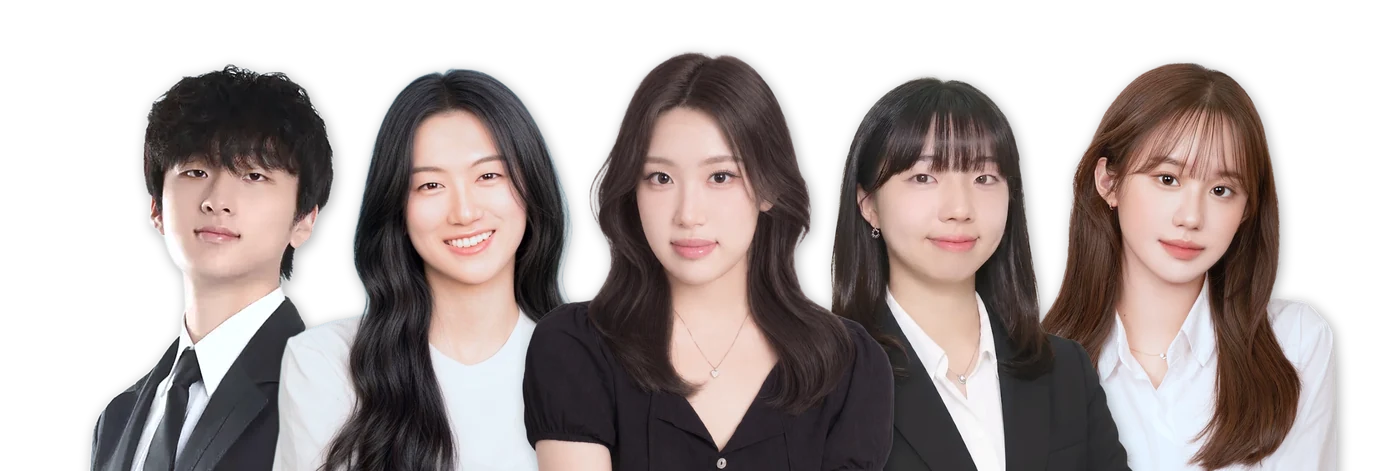
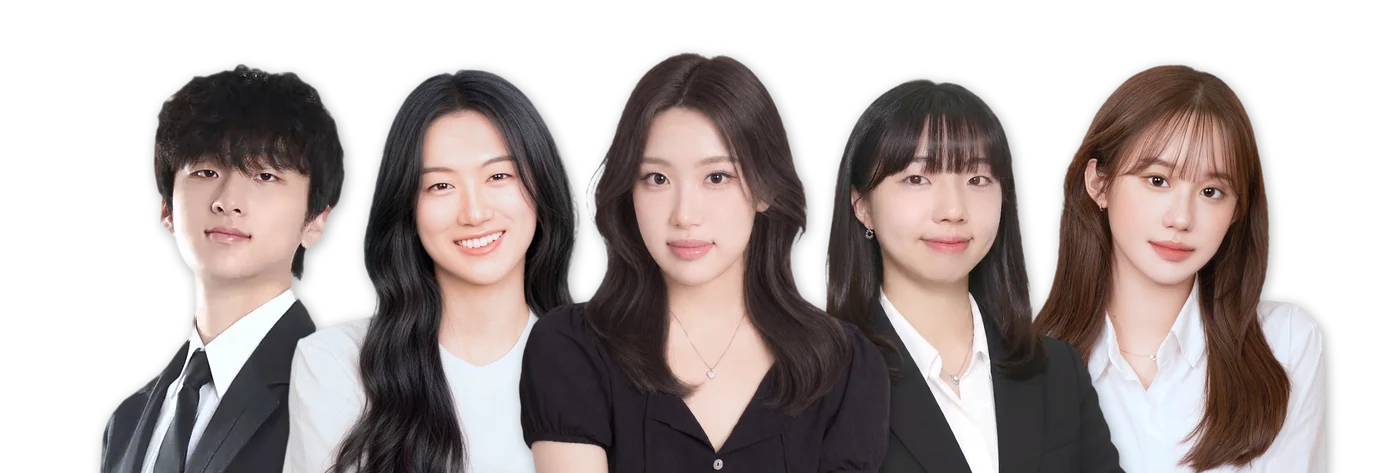
메인 선생님 사진 누끼 가장자리 흰 테두리 제거(가장자리 색 정리+1px 조임), 안호수 어깨 잘림 수정, 목동관 순서 윤서은-임한비-안호수(가운데)-최예빈-김경민 / 목동관 강사진 안호수 맨 앞 [skip netlify]
Claude-Session: https://claude.ai/code/session_011njH4Ur6oq6sieSq6qMimB

diff --git a/data/mokdong.js b/data/mokdong.js
@@ -80,7 +80,7 @@ const TEACHERS=[
    subjects_teach:['인문논술','약술논술'],target:'고3 / N수',blogLinks:[{title:'인문논술 수업 방식',url:'https://blog.naver.com/edumate_mokdong/224350956422'},{title:'[후기] 약술 논술 수강후기',url:'https://blog.naver.com/edumate_mokdong/224184462106'}]}
 ];
 
-const T_FIRST=['임한비','정예진','김소진','김동완','윤서은','이나경','안호수'];
+const T_FIRST=['안호수','임한비','정예진','김소진','김동완','윤서은','이나경'];
 
 /* 시간표(반·요일·시간·수업 소개)는 이 파일에 적지 않는다.
    「메이트 강의목록」 구글 시트에서 자동으로 읽어 옴 — 시트만 고치면 됨 */
